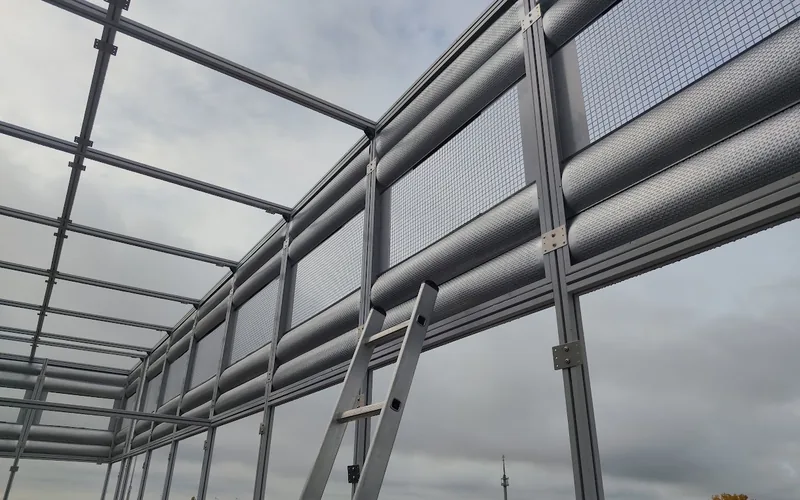
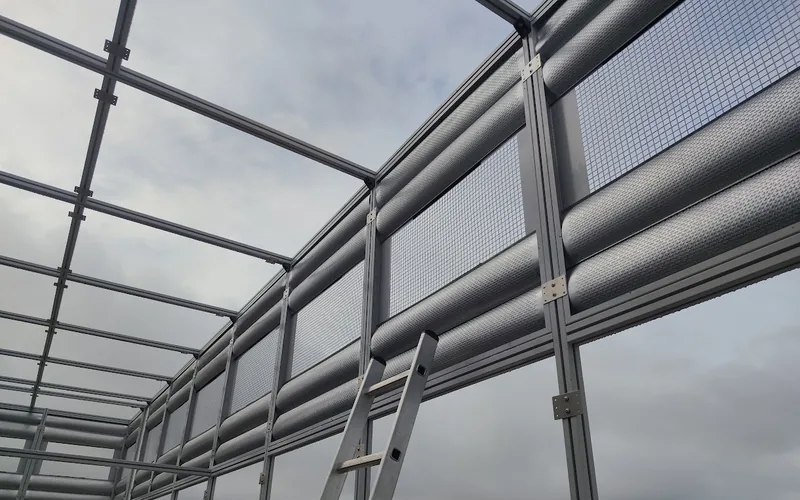
Handy-Navigation vollständig mit Sprachwahl; drei weitere Projektfotos; HSA3-Foto auf der HSA3-Seite (#19)
- Handy/Tablet: Sprachwahl rechts neben dem Logo, Menü in Zeilen statt wischbarer Leiste (EN/FR waren nicht sichtbar); Kopf scrollt auf Handys mit
- Galerie: 15 Fotos (Montage im offenen Rahmen, Dachhaube zwischen Lüftungskanälen, Einzelhaube)
- HSA3-Foto ohne Horizont neu zugeschnitten (Fernmeldeturm entfernt), zusätzlich auf /hsa3/ und /en/hsa3/

Claude-Session: https://claude.ai/code/session_01Sqh2jXHYToEzQB8HdM8Lrc

diff --git a/style.css b/style.css
@@ -25,19 +25,20 @@ a{color:var(--accent)}
 .nav .lang{color:var(--muted);font-weight:500}
 .nav .cta{background:var(--accent);color:#fff}.nav .cta:hover{background:var(--accent-d);color:#fff}
 html{scroll-padding-top:96px}
-/* Handy/Tablet: Menü als wischbare Leiste unter dem Logo */
+/* Handy/Tablet: Sprachwahl rechts neben dem Logo, Menü vollständig in Zeilen darunter (kein Wischen) */
 @media (max-width:860px){
-  .top .wrap{flex-wrap:wrap;min-height:0;gap:0}
-  .top .logo{padding:6px 0 2px}
-  .nav{width:100%;flex-wrap:nowrap;overflow-x:auto;-webkit-overflow-scrolling:touch;scrollbar-width:none;
-       gap:2px;padding:2px 0 8px;font-size:14px;
-       -webkit-mask-image:linear-gradient(90deg,#000 94%,transparent);mask-image:linear-gradient(90deg,#000 94%,transparent)}
-  .nav::-webkit-scrollbar{display:none}
-  .nav a{flex:0 0 auto;white-space:nowrap;padding:6px 9px}
+  .top .wrap{flex-wrap:wrap;min-height:0;gap:0;position:relative}
+  .top .logo{padding:6px 0 4px}
+  .nav{width:100%;flex-wrap:wrap;gap:4px;padding:2px 0 10px;font-size:14px}
+  .nav a{flex:0 0 auto;white-space:nowrap;padding:6px 10px}
+  .nav a.opt{background:var(--bg)}
   .nav .cta{order:-1}
+  .nav .lang{position:absolute;top:16px;width:40px;padding:5px 0;text-align:center;border:1px solid var(--line);border-radius:7px;background:#fff;color:var(--ink);font-weight:700;font-size:13px}
+  .nav .lang:last-child{right:20px}
+  .nav .lang:nth-last-child(2){right:66px}
 }
-@media (max-width:600px){.top .logo img{height:44px}.nav{font-size:13.5px}.nav a{padding:6px 8px}}
-@media (max-width:370px){.top .logo img{height:40px}}
+@media (max-width:600px){.top .logo img{height:44px}.nav{font-size:13.5px}.nav a{padding:6px 9px}.nav .lang{top:11px}}
+@media (max-width:370px){.top .logo img{height:40px}.nav a{padding:5px 7px}.nav .lang{top:9px;width:36px}.nav .lang:nth-last-child(2){right:60px}}
 
 /* Hero */
 .hero{background:linear-gradient(180deg,#fff 0%,var(--bg) 100%);padding:48px 0 40px}
@@ -571,3 +572,5 @@ section.dark .ab-legend span.on::before{background:#b4232f}
 .portrait img{width:200px;height:200px;object-fit:cover;border-radius:14px;border:1px solid var(--line)}
 .portrait figcaption{font-size:13px;color:var(--muted);margin-top:8px;line-height:1.4}
 @media (max-width:560px){.portrait{float:none;width:100%;margin:0 0 16px}.portrait img{width:160px;height:160px}}
+/* Handy: Kopf scrollt mit (zwei Menüzeilen würden sonst ein Fünftel des Bildschirms verdecken) */
+@media (max-width:600px){.top{position:static}html{scroll-padding-top:12px}}

diff --git a/fr/index.html b/fr/index.html
@@ -159,9 +159,12 @@
       <figure><img src="/img/praxis/detail-absorber.webp" width="800" height="500" loading="lazy" alt="Détail : ouvertures d’air perforées avec couche absorbante"><figcaption>Détail : ouvertures d’air avec couche absorbante</figcaption></figure>
       <figure><img src="/img/praxis/rohrdurchfuehrung-dach.webp" width="800" height="500" loading="lazy" alt="Caisson en toiture avec traversées de tuyauterie isolées"><figcaption>Caisson en toiture avec traversées de tuyauterie</figcaption></figure>
       <figure><img src="/img/praxis/gebaeudewand-hell.webp" width="800" height="500" loading="lazy" alt="Caisson clair sur une pelouse contre la façade d’un bâtiment"><figcaption>Caisson contre la façade du bâtiment</figcaption></figure>
+      <figure><img src="/img/praxis/montage-offener-rahmen.webp" width="800" height="500" loading="lazy" alt="Pompe à chaleur dans l’ossature ouverte pendant le montage du caisson"><figcaption>La même installation pendant le montage</figcaption></figure>
       <figure><img src="/img/praxis/lamellenfassade-gruendach.webp" width="800" height="500" loading="lazy" alt="Grand caisson avec bardage à lames sur une toiture végétalisée"><figcaption>Grand caisson à bardage à lames sur toiture végétalisée</figcaption></figure>
       <figure><img src="/img/praxis/vrf-daikin-servicetuer.webp" width="800" height="500" loading="lazy" alt="Caisson autour d’une unité extérieure VRF, panneau de service retiré"><figcaption>Unité extérieure VRF : panneau de service amovible</figcaption></figure>
       <figure><img src="/img/praxis/hsa3-roehren-decke.webp" width="800" height="500" loading="lazy" alt="Plafond de silencieux tubulaires HSA3 dans une ossature au-dessus de groupes froids"><figcaption>Plafond de silencieux tubulaires HSA3</figcaption></figure>
+      <figure><img src="/img/praxis/dach-lueftungskanaele.webp" width="800" height="500" loading="lazy" alt="Caisson en toiture entre gaines de ventilation et charpente acier"><figcaption>Caisson en toiture entre les gaines – montage serré</figcaption></figure>
+      <figure><img src="/img/praxis/einzelhaube-wuerfel.webp" width="800" height="500" loading="lazy" alt="Caisson individuel compact anthracite sur une pelouse"><figcaption>Caisson individuel compact en extérieur</figcaption></figure>
     </div>
     <p class="note">Photos de projets réalisés – sans noms de clients ni lieux.</p>
   </div>

diff --git a/index.html b/index.html
@@ -159,9 +159,12 @@
       <figure><img src="/img/praxis/detail-absorber.webp" width="800" height="500" loading="lazy" alt="Detail: gelochte Lüftungsöffnungen mit dahinterliegender Absorberlage"><figcaption>Detail: Lüftungsöffnungen mit Absorberlage</figcaption></figure>
       <figure><img src="/img/praxis/rohrdurchfuehrung-dach.webp" width="800" height="500" loading="lazy" alt="Schallhaube auf dem Dach mit isolierten Rohrdurchführungen"><figcaption>Haube mit Rohrdurchführungen auf dem Dach</figcaption></figure>
       <figure><img src="/img/praxis/gebaeudewand-hell.webp" width="800" height="500" loading="lazy" alt="Helle Schallhaube auf einer Rasenfläche direkt an der Gebäudewand"><figcaption>Einhausung direkt an der Gebäudewand</figcaption></figure>
+      <figure><img src="/img/praxis/montage-offener-rahmen.webp" width="800" height="500" loading="lazy" alt="Wärmepumpe im offenen Profilrahmen während der Montage der Schallhaube"><figcaption>Dieselbe Anlage während der Montage</figcaption></figure>
       <figure><img src="/img/praxis/lamellenfassade-gruendach.webp" width="800" height="500" loading="lazy" alt="Große Einhausung mit Lamellenverkleidung auf einem Gründach"><figcaption>Großeinhausung mit Lamellenverkleidung auf dem Gründach</figcaption></figure>
       <figure><img src="/img/praxis/vrf-daikin-servicetuer.webp" width="800" height="500" loading="lazy" alt="Schallhaube um ein VRF-Außengerät mit abgenommenem Servicepaneel"><figcaption>VRF-Außengerät: Servicepaneel abnehmbar</figcaption></figure>
       <figure><img src="/img/praxis/hsa3-roehren-decke.webp" width="800" height="500" loading="lazy" alt="Decke aus HSA3-Röhrenschalldämpfern in einem Profilrahmen über Kälteanlagen"><figcaption>Decke aus HSA3-Röhrenschalldämpfern</figcaption></figure>
+      <figure><img src="/img/praxis/dach-lueftungskanaele.webp" width="800" height="500" loading="lazy" alt="Schallhaube auf dem Dach zwischen Lüftungskanälen und Stahlrahmen"><figcaption>Dachhaube zwischen Lüftungskanälen – enger Einbau</figcaption></figure>
+      <figure><img src="/img/praxis/einzelhaube-wuerfel.webp" width="800" height="500" loading="lazy" alt="Kompakte anthrazitfarbene Einzelhaube auf einer Rasenfläche"><figcaption>Kompakte Einzelhaube im Außenbereich</figcaption></figure>
     </div>
     <p class="note">Fotos aus ausgeführten Projekten – ohne Kundennamen und Standorte.</p>
   </div>

diff --git a/en/index.html b/en/index.html
@@ -159,9 +159,12 @@
       <figure><img src="/img/praxis/detail-absorber.webp" width="800" height="500" loading="lazy" alt="Detail: perforated air openings with absorber layer behind"><figcaption>Detail: air openings with absorber layer</figcaption></figure>
       <figure><img src="/img/praxis/rohrdurchfuehrung-dach.webp" width="800" height="500" loading="lazy" alt="Rooftop enclosure with insulated pipe penetrations"><figcaption>Rooftop enclosure with pipe penetrations</figcaption></figure>
       <figure><img src="/img/praxis/gebaeudewand-hell.webp" width="800" height="500" loading="lazy" alt="Light-coloured enclosure on a lawn right next to a building wall"><figcaption>Enclosure right next to the building wall</figcaption></figure>
+      <figure><img src="/img/praxis/montage-offener-rahmen.webp" width="800" height="500" loading="lazy" alt="Heat pump in the open profile frame while the enclosure is being installed"><figcaption>The same unit during installation</figcaption></figure>
       <figure><img src="/img/praxis/lamellenfassade-gruendach.webp" width="800" height="500" loading="lazy" alt="Large enclosure with louvre cladding on a green roof"><figcaption>Large enclosure with louvre cladding on a green roof</figcaption></figure>
       <figure><img src="/img/praxis/vrf-daikin-servicetuer.webp" width="800" height="500" loading="lazy" alt="Enclosure around a VRF outdoor unit with service panel removed"><figcaption>VRF outdoor unit: removable service panel</figcaption></figure>
       <figure><img src="/img/praxis/hsa3-roehren-decke.webp" width="800" height="500" loading="lazy" alt="Ceiling of HSA3 tube silencers in a profile frame above chillers"><figcaption>Ceiling of HSA3 tube silencers</figcaption></figure>
+      <figure><img src="/img/praxis/dach-lueftungskanaele.webp" width="800" height="500" loading="lazy" alt="Rooftop enclosure between ventilation ducts and a steel frame"><figcaption>Rooftop enclosure between ducts – tight installation</figcaption></figure>
+      <figure><img src="/img/praxis/einzelhaube-wuerfel.webp" width="800" height="500" loading="lazy" alt="Compact anthracite single enclosure on a lawn"><figcaption>Compact single enclosure outdoors</figcaption></figure>
     </div>
     <p class="note">Photos from completed projects – without customer names or locations.</p>
   </div>

diff --git a/hsa3/_src/de.html b/hsa3/_src/de.html
@@ -131,6 +131,7 @@
       <div class="card"><span class="tag">Brandschutz</span><h3>Batteriespeicher</h3><p>Nicht brennbar A1, ohne Fasern – die richtige Wahl dort, wo im Brandfall nichts mitbrennen darf.</p><a class="more" href="/loesungen/wechselrichter-bess/">Wechselrichter &amp; BESS →</a></div>
       <div class="card"><span class="tag">Nachrüstung</span><h3>Einzelne Lärmquellen</h3><p>Kompressor-Panel gegen tieffrequentes Dröhnen, Ventilator-Zylinder gegen den Blattfrequenz-Ton – nah an der Quelle, einzeln entnehmbar.</p><a class="more" href="/technik/#hsa3">Baukasten →</a></div>
     </div>
+    <figure class="hsa3-photo" style="margin-top:28px"><img src="/img/praxis/hsa3-roehren-gross.webp" width="1200" height="689" alt="Reihen von HSA3-Röhrenschalldämpfern mit geprägter Oberfläche in einem Aluminium-Profilrahmen auf einem Dach, von innen gesehen" loading="lazy"><figcaption><b>Im Einsatz</b> – HSA3-Röhrenschalldämpfer als Wand einer offenen Einhausung auf dem Dach: Luft strömt zwischen den Röhren hindurch, der Schall wird in den Resonanzkammern geschluckt.</figcaption></figure>
     <div class="alliance" style="margin-top:28px"><b>Engineered with Absora Technology</b><span>HSA3 ist eine Entwicklung der ABSORA GmbH, Berlin, die das Patent hält. Silent Engineering übernimmt Planung und akustische Auslegung; Fertigung und Montage erfolgen gemeinsam mit ABSORA – Auslegung und Ausführung aus einer Hand.</span></div>
     <div class="cfgband">
       <div><h3>HSA3 in Ihrer Haube</h3><p>Jede Haube aus dem Konfigurator ist mit HSA3 ausgekleidet. Gerät eingeben, Haube sofort vordimensionieren.</p></div>

diff --git a/hsa3/index.html b/hsa3/index.html
@@ -195,6 +195,7 @@
       <div class="card"><span class="tag">Brandschutz</span><h3>Batteriespeicher</h3><p>Nicht brennbar A1, ohne Fasern – die richtige Wahl dort, wo im Brandfall nichts mitbrennen darf.</p><a class="more" href="/loesungen/wechselrichter-bess/">Wechselrichter &amp; BESS →</a></div>
       <div class="card"><span class="tag">Nachrüstung</span><h3>Einzelne Lärmquellen</h3><p>Kompressor-Panel gegen tieffrequentes Dröhnen, Ventilator-Zylinder gegen den Blattfrequenz-Ton – nah an der Quelle, einzeln entnehmbar.</p><a class="more" href="/technik/#hsa3">Baukasten →</a></div>
     </div>
+    <figure class="hsa3-photo" style="margin-top:28px"><img src="/img/praxis/hsa3-roehren-gross.webp" width="1200" height="689" alt="Reihen von HSA3-Röhrenschalldämpfern mit geprägter Oberfläche in einem Aluminium-Profilrahmen auf einem Dach, von innen gesehen" loading="lazy"><figcaption><b>Im Einsatz</b> – HSA3-Röhrenschalldämpfer als Wand einer offenen Einhausung auf dem Dach: Luft strömt zwischen den Röhren hindurch, der Schall wird in den Resonanzkammern geschluckt.</figcaption></figure>
     <div class="alliance" style="margin-top:28px"><b>Engineered with Absora Technology</b><span>HSA3 ist eine Entwicklung der ABSORA GmbH, Berlin, die das Patent hält. Silent Engineering übernimmt Planung und akustische Auslegung; Fertigung und Montage erfolgen gemeinsam mit ABSORA – Auslegung und Ausführung aus einer Hand.</span></div>
     <div class="cfgband">
       <div><h3>HSA3 in Ihrer Haube</h3><p>Jede Haube aus dem Konfigurator ist mit HSA3 ausgekleidet. Gerät eingeben, Haube sofort vordimensionieren.</p></div>

diff --git a/en/hsa3/index.html b/en/hsa3/index.html
@@ -195,6 +195,7 @@
       <div class="card"><span class="tag">Fire safety</span><h3>Battery storage</h3><p>Non-combustible A1, no fibres – the right choice wherever nothing may burn along in a fire.</p><a class="more" href="/en/solutions/inverters-bess/">Inverters &amp; BESS →</a></div>
       <div class="card"><span class="tag">Retrofit</span><h3>Single noise sources</h3><p>Compressor panel against low-frequency droning, fan cylinder against the blade-passing tone – close to the source, individually removable.</p><a class="more" href="/en/technology/#hsa3">Modular kit →</a></div>
     </div>
+    <figure class="hsa3-photo" style="margin-top:28px"><img src="/img/praxis/hsa3-roehren-gross.webp" width="1200" height="689" alt="Rows of HSA3 tube silencers with embossed surface in an aluminium profile frame on a roof, seen from inside" loading="lazy"><figcaption><b>In use</b> – HSA3 tube silencers forming the wall of an open rooftop enclosure: air flows between the tubes while the sound is absorbed in the resonance chambers.</figcaption></figure>
     <div class="alliance" style="margin-top:28px"><b>Engineered with Absora Technology</b><span>HSA3 was developed by ABSORA GmbH, Berlin, which holds the patent. Silent Engineering handles design and acoustic engineering; manufacturing and installation are carried out together with ABSORA – design and execution from a single source.</span></div>
     <div class="cfgband">
       <div><h3>HSA3 in your enclosure</h3><p>Every enclosure from the configurator is lined with HSA3. Enter your unit, size the enclosure instantly.</p></div>

diff --git a/hsa3/_src/en.html b/hsa3/_src/en.html
@@ -131,6 +131,7 @@
       <div class="card"><span class="tag">Fire safety</span><h3>Battery storage</h3><p>Non-combustible A1, no fibres – the right choice wherever nothing may burn along in a fire.</p><a class="more" href="/en/solutions/inverters-bess/">Inverters &amp; BESS →</a></div>
       <div class="card"><span class="tag">Retrofit</span><h3>Single noise sources</h3><p>Compressor panel against low-frequency droning, fan cylinder against the blade-passing tone – close to the source, individually removable.</p><a class="more" href="/en/technology/#hsa3">Modular kit →</a></div>
     </div>
+    <figure class="hsa3-photo" style="margin-top:28px"><img src="/img/praxis/hsa3-roehren-gross.webp" width="1200" height="689" alt="Rows of HSA3 tube silencers with embossed surface in an aluminium profile frame on a roof, seen from inside" loading="lazy"><figcaption><b>In use</b> – HSA3 tube silencers forming the wall of an open rooftop enclosure: air flows between the tubes while the sound is absorbed in the resonance chambers.</figcaption></figure>
     <div class="alliance" style="margin-top:28px"><b>Engineered with Absora Technology</b><span>HSA3 was developed by ABSORA GmbH, Berlin, which holds the patent. Silent Engineering handles design and acoustic engineering; manufacturing and installation are carried out together with ABSORA – design and execution from a single source.</span></div>
     <div class="cfgband">
       <div><h3>HSA3 in your enclosure</h3><p>Every enclosure from the configurator is lined with HSA3. Enter your unit, size the enclosure instantly.</p></div>
